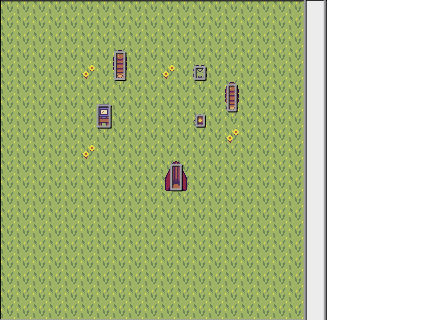
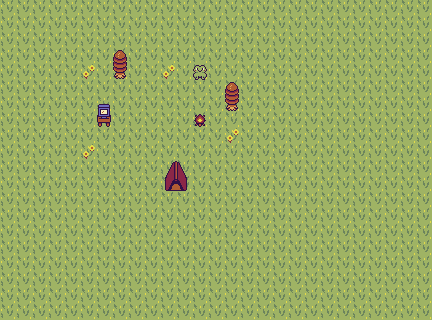
Map Changes(camera+size)

diff --git a/public/map.json.js b/public/map.json.js
@@ -21,26 +21,26 @@
  "infinite":false,
  "layers":[
         {
-         "data":[0, 0, 0, 0, 0, 0, 0, 0, 0, 0, 0, 0, 0, 0, 0, 0, 0, 0, 0, 0, 0, 0, 0, 0, 0, 0, 0,
-            0, 0, 0, 0, 0, 0, 0, 0, 0, 0, 0, 0, 0, 0, 0, 0, 0, 0, 0, 0, 0, 0, 0, 0, 0, 0, 0,
-            0, 0, 0, 41, 41, 41, 41, 41, 41, 41, 41, 41, 41, 41, 41, 41, 0, 0, 0, 0, 0, 0, 0, 0, 0, 0, 0,
-            0, 0, 0, 41, 41, 41, 41, 41, 41, 41, 41, 41, 41, 41, 41, 41, 0, 0, 0, 0, 0, 0, 0, 0, 0, 0, 0,
-            0, 0, 0, 41, 41, 41, 41, 41, 41, 41, 41, 41, 41, 41, 41, 41, 0, 0, 0, 0, 0, 0, 0, 0, 0, 0, 0,
-            0, 0, 0, 41, 41, 41, 41, 41, 41, 41, 41, 41, 41, 41, 41, 41, 0, 0, 0, 0, 0, 0, 0, 0, 0, 0, 0,
-            0, 0, 0, 41, 41, 41, 41, 41, 41, 41, 41, 41, 41, 41, 41, 41, 0, 0, 0, 0, 0, 0, 0, 0, 0, 0, 0,
-            0, 0, 0, 41, 41, 41, 41, 41, 41, 41, 41, 41, 41, 41, 41, 41, 0, 0, 0, 0, 0, 0, 0, 0, 0, 0, 0,
-            0, 0, 0, 41, 41, 41, 41, 41, 41, 41, 41, 41, 41, 41, 41, 41, 0, 0, 0, 0, 0, 0, 0, 0, 0, 0, 0,
-            0, 0, 0, 41, 41, 41, 41, 41, 41, 41, 41, 41, 41, 41, 41, 41, 0, 0, 0, 0, 0, 0, 0, 0, 0, 0, 0,
-            0, 0, 0, 41, 41, 41, 41, 41, 41, 41, 41, 41, 41, 41, 41, 41, 0, 0, 0, 0, 0, 0, 0, 0, 0, 0, 0,
-            0, 0, 0, 41, 41, 41, 41, 41, 41, 41, 41, 41, 41, 41, 41, 41, 0, 0, 0, 0, 0, 0, 0, 0, 0, 0, 0,
-            0, 0, 0, 41, 41, 41, 41, 41, 41, 41, 41, 41, 41, 41, 41, 41, 0, 0, 0, 0, 0, 0, 0, 0, 0, 0, 0,
-            0, 0, 0, 41, 41, 41, 41, 41, 41, 41, 41, 41, 41, 41, 41, 41, 0, 0, 0, 0, 0, 0, 0, 0, 0, 0, 0,
-            0, 0, 0, 0, 0, 0, 0, 0, 0, 0, 0, 0, 0, 0, 0, 0, 0, 0, 0, 0, 0, 0, 0, 0, 0, 0, 0,
-            0, 0, 0, 0, 0, 0, 0, 0, 0, 0, 0, 0, 0, 0, 0, 0, 0, 0, 0, 0, 0, 0, 0, 0, 0, 0, 0,
-            0, 0, 0, 0, 0, 0, 0, 0, 0, 0, 0, 0, 0, 0, 0, 0, 0, 0, 0, 0, 0, 0, 0, 0, 0, 0, 0,
-            0, 0, 0, 0, 0, 0, 0, 0, 0, 0, 0, 0, 0, 0, 0, 0, 0, 0, 0, 0, 0, 0, 0, 0, 0, 0, 0,
-            0, 0, 0, 0, 0, 0, 0, 0, 0, 0, 0, 0, 0, 0, 0, 0, 0, 0, 0, 0, 0, 0, 0, 0, 0, 0, 0,
-            0, 0, 0, 0, 0, 0, 0, 0, 0, 0, 0, 0, 0, 0, 0, 0, 0, 0, 0, 0, 0, 0, 0, 0, 0, 0, 0],
+         "data":[41, 41, 41, 41, 41, 41, 41, 41, 41, 41, 41, 41, 41, 41, 41, 41, 41, 41, 41, 41, 41, 41, 41, 41, 41, 41, 41,
+            41, 41, 41, 41, 41, 41, 41, 41, 41, 41, 41, 41, 41, 41, 41, 41, 41, 41, 41, 41, 41, 41, 41, 41, 41, 41, 41,
+            41, 41, 41, 41, 41, 41, 41, 41, 41, 41, 41, 41, 41, 41, 41, 41, 41, 41, 41, 41, 41, 41, 41, 41, 41, 41, 41,
+            41, 41, 41, 41, 41, 41, 41, 41, 41, 41, 41, 41, 41, 41, 41, 41, 41, 41, 41, 41, 41, 41, 41, 41, 41, 41, 41,
+            41, 41, 41, 41, 41, 41, 41, 41, 41, 41, 41, 41, 41, 41, 41, 41, 41, 41, 41, 41, 41, 41, 41, 41, 41, 41, 41,
+            41, 41, 41, 41, 41, 41, 41, 41, 41, 41, 41, 41, 41, 41, 41, 41, 41, 41, 41, 41, 41, 41, 41, 41, 41, 41, 41,
+            41, 41, 41, 41, 41, 41, 41, 41, 41, 41, 41, 41, 41, 41, 41, 41, 41, 41, 41, 41, 41, 41, 41, 41, 41, 41, 41,
+            41, 41, 41, 41, 41, 41, 41, 41, 41, 41, 41, 41, 41, 41, 41, 41, 41, 41, 41, 41, 41, 41, 41, 41, 41, 41, 41,
+            41, 41, 41, 41, 41, 41, 41, 41, 41, 41, 41, 41, 41, 41, 41, 41, 41, 41, 41, 41, 41, 41, 41, 41, 41, 41, 41,
+            41, 41, 41, 41, 41, 41, 41, 41, 41, 41, 41, 41, 41, 41, 41, 41, 41, 41, 41, 41, 41, 41, 41, 41, 41, 41, 41,
+            41, 41, 41, 41, 41, 41, 41, 41, 41, 41, 41, 41, 41, 41, 41, 41, 41, 41, 41, 41, 41, 41, 41, 41, 41, 41, 41,
+            41, 41, 41, 41, 41, 41, 41, 41, 41, 41, 41, 41, 41, 41, 41, 41, 41, 41, 41, 41, 41, 41, 41, 41, 41, 41, 41,
+            41, 41, 41, 41, 41, 41, 41, 41, 41, 41, 41, 41, 41, 41, 41, 41, 41, 41, 41, 41, 41, 41, 41, 41, 41, 41, 41,
+            41, 41, 41, 41, 41, 41, 41, 41, 41, 41, 41, 41, 41, 41, 41, 41, 41, 41, 41, 41, 41, 41, 41, 41, 41, 41, 41,
+            41, 41, 41, 41, 41, 41, 41, 41, 41, 41, 41, 41, 41, 41, 41, 41, 41, 41, 41, 41, 41, 41, 41, 41, 41, 41, 41,
+            41, 41, 41, 41, 41, 41, 41, 41, 41, 41, 41, 41, 41, 41, 41, 41, 41, 41, 41, 41, 41, 41, 41, 41, 41, 41, 41,
+            41, 41, 41, 41, 41, 41, 41, 41, 41, 41, 41, 41, 41, 41, 41, 41, 41, 41, 41, 41, 41, 41, 41, 41, 41, 41, 41,
+            41, 41, 41, 41, 41, 41, 41, 41, 41, 41, 41, 41, 41, 41, 41, 41, 41, 41, 41, 41, 41, 41, 41, 41, 41, 41, 41,
+            41, 41, 41, 41, 41, 41, 41, 41, 41, 41, 41, 41, 41, 41, 41, 41, 41, 41, 41, 41, 41, 41, 41, 41, 41, 41, 41,
+            41, 41, 41, 41, 41, 41, 41, 41, 41, 41, 41, 41, 41, 41, 41, 41, 41, 41, 41, 41, 41, 41, 41, 41, 41, 41, 41],
          "height":20,
          "id":2,
          "name":"Grass",
@@ -111,28 +111,6 @@
          "name":"boundaries",
          "objects":[
                 {
-                 "height":0,
-                 "id":2,
-                 "name":"",
-                 "rotation":0,
-                 "type":"",
-                 "visible":true,
-                 "width":192,
-                 "x":64,
-                 "y":32
-                }, 
-                {
-                 "height":32,
-                 "id":9,
-                 "name":"",
-                 "rotation":0,
-                 "type":"",
-                 "visible":true,
-                 "width":0,
-                 "x":272,
-                 "y":80
-                }, 
-                {
                  "height":21.3792880049237,
                  "id":14,
                  "name":"Computer",
@@ -194,51 +172,7 @@
                  "y":115.318583784134
                 }, 
                 {
-                 "height":16,
-                 "id":22,
-                 "name":"Wall",
-                 "rotation":0,
-                 "type":"",
-                 "visible":true,
-                 "width":208,
-                 "x":48,
-                 "y":16
-                }, 
-                {
-                 "height":192,
-                 "id":23,
-                 "name":"Wall",
-                 "rotation":0,
-                 "type":"",
-                 "visible":true,
-                 "width":16,
-                 "x":32,
-                 "y":32
-                }, 
-                {
-                 "height":16,
-                 "id":31,
-                 "name":"Wall",
-                 "rotation":0,
-                 "type":"",
-                 "visible":true,
-                 "width":208,
-                 "x":48,
-                 "y":224
-                }, 
-                {
-                 "height":192,
-                 "id":32,
-                 "name":"Wall",
-                 "rotation":0,
-                 "type":"",
-                 "visible":true,
-                 "width":16,
-                 "x":256,
-                 "y":32
-                }, 
-                {
-                 "height":24.5454545454545,
+                 "height":26.4687780484677,
                  "id":38,
                  "name":"Tent",
                  "properties":[
@@ -253,15 +187,59 @@
                  "width":9.63636363636363,
                  "x":171.143047346402,
                  "y":164.779410982766
+                }, 
+                {
+                 "height":21.3724143195175,
+                 "id":52,
+                 "name":"Wall",
+                 "rotation":0,
+                 "type":"",
+                 "visible":true,
+                 "width":304.17525379742,
+                 "x":-0.381650255705671,
+                 "y":320.204564537058
+                }, 
+                {
+                 "height":322.370563334419,
+                 "id":54,
+                 "name":"Wall",
+                 "rotation":0,
+                 "type":"",
+                 "visible":true,
+                 "width":20.0803212851406,
+                 "x":-21.1657440573103,
+                 "y":0
+                }, 
+                {
+                 "height":21.3724,
+                 "id":56,
+                 "name":"Wall",
+                 "rotation":0,
+                 "type":"",
+                 "visible":true,
+                 "width":304.175,
+                 "x":-0.671023282318451,
+                 "y":-22.0831391077824
+                }, 
+                {
+                 "height":322.371,
+                 "id":57,
+                 "name":"Wall",
+                 "rotation":0,
+                 "type":"",
+                 "visible":true,
+                 "width":20.0803,
+                 "x":430.501787619356,
+                 "y":-1.97762219496127
                 }],
          "opacity":1,
          "type":"objectgroup",
-         "visible":true,
+         "visible":false,
          "x":0,
          "y":0
         }],
  "nextlayerid":6,
- "nextobjectid":39,
+ "nextobjectid":58,
  "orientation":"orthogonal",
  "renderorder":"right-down",
  "tiledversion":"1.11.2",

diff --git a/src/main.js b/src/main.js
@@ -8,6 +8,7 @@ const k = kaplay({
     canvas: document.getElementById("game"), 
     background: [128, 0, 128],
     global: true,
+
 });
 
 //Loading of sprites & sounds etc .
@@ -62,7 +63,7 @@ k.scene("main", async () => {
         k.pos(),
         k.scale(scaleFactor),
         {
-            speed: 250,
+            speed: 100,
             direction: "down",
             isInDialogue: false,
         },
@@ -74,7 +75,7 @@ k.scene("main", async () => {
     for (const layer of layers){
         if (layer.name === "boundaries") {
             for (const boundary of layer.objects) {
-                // sPrepare the componrents that ALL boundaries have
+                // Prepare the componrents that ALL boundaries have
                 const components = [
                     k.area({
                     shape: new k.Rect(k.vec2(0), boundary.width, boundary.height),
@@ -120,7 +121,7 @@ k.scene("main", async () => {
     const closest = items[0];
 
     
-        if (closest && player.worldPos().dist(closest.worldPos()) < 100 && !player.isInDialogue) {
+        if (closest && player.worldPos().dist(closest.worldPos()) < 25 && !player.isInDialogue) {
             player.isInDialogue = true;
 
             // Trigger the dialogue with just the boundary name (closest.msg)
@@ -131,18 +132,17 @@ k.scene("main", async () => {
     });
     
 
-
-    //camera scaling for different aspect ratios 
-    setCamScale(k);
-
-    k.onResize(() => {
-        setCamScale(k);
-    });
-
-
-    //camera position for player 
+    //camera scaling logic 
     k.onUpdate(() => {
-        k.camPos(player.pos.add(k.vec2(0, 100)));;
+        const mapWidth = 432 * scaleFactor;
+        const mapHeight = 320 * scaleFactor;
+
+        const stretchX = k.width() / mapWidth;
+        const stretchY = k.height() / mapHeight;
+        //to scretch screen
+        k.camScale(k.vec2(stretchX, stretchY));
+        
+        k.camPos(mapWidth / 2, mapHeight / 2); 
     });
 
 

diff --git a/index.html b/index.html
@@ -27,10 +27,24 @@
         overflow:hidden;
       }
 
-      #app{
-      width:100%;
-      height: 100%;
-      position: relative;
+      /* Fix the canvas size and prevent stretching */
+      #game {
+        width: 100%;
+        height: 100%;
+        image-rendering: pixelated; 
+        image-rendering: crisp-edges;
+        display: block;
+      }
+
+      /* Ensure the app container actually takes up the whole screen */
+      #app {
+        width: 100vw;
+        height: 100vh;
+        position: relative;
+        background-color: #800080; 
+        display: flex;
+        justify-content: center;
+        align-items: center;
       }
 
       #textbox{

diff --git a/src/constants.js b/src/constants.js
@@ -1,1 +1,1 @@
-export const scaleFactor = 4;
+export const scaleFactor = 1;
